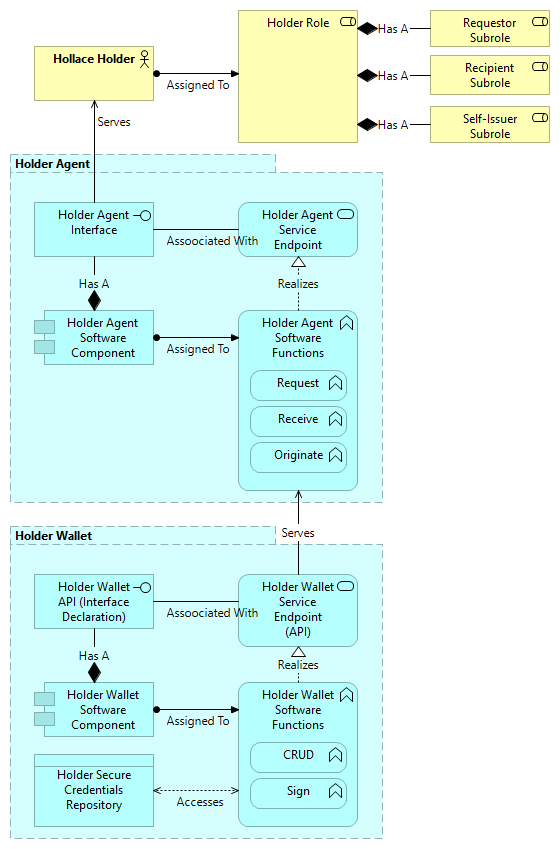
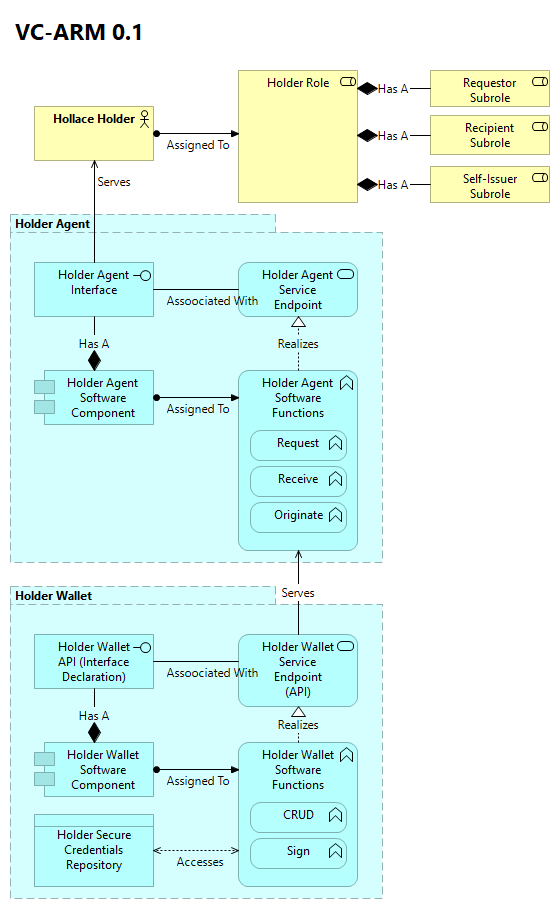
Updates

diff --git a/docs/id-5f1b868ce86d44c0824994fb5651137e/views/id-057761f3dbe04865ae358b3adf562c9b.html b/docs/id-5f1b868ce86d44c0824994fb5651137e/views/id-057761f3dbe04865ae358b3adf562c9b.html
@@ -34,31 +34,32 @@
 		    <!-- If this is a digram model (has children and no bounds) show the image -->
 			   <img class="diagram" src="../images/id-057761f3dbe04865ae358b3adf562c9b.png" alt="Hollace Holder" usemap="#id-057761f3dbe04865ae358b3adf562c9bmap"/>
 			   <map name="id-057761f3dbe04865ae358b3adf562c9bmap">
-				  				<area shape="rect" coords="34,754,154,827" href="../elements/id-10a0bb1a6f5a42da8bd22528b1be71bb.html"  target="element">
-				  						<area shape="rect" coords="250,778,347,809" href="../elements/id-1e212a46a3f24dfe8537ff79396595f8.html"  target="element">
-				  						<area shape="rect" coords="250,742,347,773" href="../elements/id-b7b471db2e7b4468a7560329dc020ba8.html"  target="element">
+				          <area shape="rect" coords="10,10,195,59" href="../objects/id-24a3309cb8154de5897f79bce68cece9.html" target="element" >
+				  				<area shape="rect" coords="34,814,154,887" href="../elements/id-10a0bb1a6f5a42da8bd22528b1be71bb.html"  target="element">
+				  						<area shape="rect" coords="250,838,347,869" href="../elements/id-1e212a46a3f24dfe8537ff79396595f8.html"  target="element">
+				  						<area shape="rect" coords="250,802,347,833" href="../elements/id-b7b471db2e7b4468a7560329dc020ba8.html"  target="element">
 
-				  				<area shape="rect" coords="238,682,358,827" href="../elements/id-3c14c3c766f04936ad9d70cefb44bc3d.html"  target="element">
-				  				<area shape="rect" coords="238,574,358,647" href="../elements/id-b89f7bc7dab04c119884cdb49d324cb8.html"  target="element">
-				  				<area shape="rect" coords="34,574,154,629" href="../elements/id-1a199d2642474268aa65907306ca427f.html"  target="element">
-				  				<area shape="rect" coords="34,682,154,737" href="../elements/id-d8c74a6a6bbc4d71899d1422d84370ae.html"  target="element">
+				  				<area shape="rect" coords="238,742,358,887" href="../elements/id-3c14c3c766f04936ad9d70cefb44bc3d.html"  target="element">
+				  				<area shape="rect" coords="238,634,358,707" href="../elements/id-b89f7bc7dab04c119884cdb49d324cb8.html"  target="element">
+				  				<area shape="rect" coords="34,634,154,689" href="../elements/id-1a199d2642474268aa65907306ca427f.html"  target="element">
+				  				<area shape="rect" coords="34,742,154,797" href="../elements/id-d8c74a6a6bbc4d71899d1422d84370ae.html"  target="element">
 
-				  		<area shape="rect" coords="10,526,383,839" href="../elements/id-ad8500bc4fa44a96bfbff93b9854d1bc.html"  target="element">
-				  		<area shape="rect" coords="430,55,550,95" href="../elements/id-50b888d408084381afd53c53c06b4dad.html"  target="element">
-				  		<area shape="rect" coords="430,106,550,143" href="../elements/id-3f8772030ae84038a1985429e6b9e5f7.html"  target="element">
-				  		<area shape="rect" coords="430,10,550,47" href="../elements/id-3be9d5756c154a34a602aacf626b26a3.html"  target="element">
-				  						<area shape="rect" coords="250,442,347,473" href="../elements/id-7e064d9a274a432bbca4f9107d67d92a.html"  target="element">
-				  						<area shape="rect" coords="250,406,347,437" href="../elements/id-c40bafde6ea54cab9142e6a40a0bcc62.html"  target="element">
-				  						<area shape="rect" coords="250,370,347,401" href="../elements/id-a03a7444b0f3499d950d5e9332a2ca58.html"  target="element">
+				  		<area shape="rect" coords="10,586,383,899" href="../elements/id-ad8500bc4fa44a96bfbff93b9854d1bc.html"  target="element">
+				  		<area shape="rect" coords="430,115,550,155" href="../elements/id-50b888d408084381afd53c53c06b4dad.html"  target="element">
+				  		<area shape="rect" coords="430,166,550,203" href="../elements/id-3f8772030ae84038a1985429e6b9e5f7.html"  target="element">
+				  		<area shape="rect" coords="430,70,550,107" href="../elements/id-3be9d5756c154a34a602aacf626b26a3.html"  target="element">
+				  						<area shape="rect" coords="250,502,347,533" href="../elements/id-7e064d9a274a432bbca4f9107d67d92a.html"  target="element">
+				  						<area shape="rect" coords="250,466,347,497" href="../elements/id-c40bafde6ea54cab9142e6a40a0bcc62.html"  target="element">
+				  						<area shape="rect" coords="250,430,347,461" href="../elements/id-a03a7444b0f3499d950d5e9332a2ca58.html"  target="element">
 
-				  				<area shape="rect" coords="238,310,358,491" href="../elements/id-ce4b17914ae644d2af34d2921eb5f556.html"  target="element">
-				  				<area shape="rect" coords="238,202,358,257" href="../elements/id-527afc36056d446a8c8e2bd7ba807223.html"  target="element">
-				  				<area shape="rect" coords="34,202,154,257" href="../elements/id-425c673a022f4662941015db655f503e.html"  target="element">
-				  				<area shape="rect" coords="34,310,154,365" href="../elements/id-6308c5a576c64a38bd3f4fca4b56d6b1.html"  target="element">
+				  				<area shape="rect" coords="238,370,358,551" href="../elements/id-ce4b17914ae644d2af34d2921eb5f556.html"  target="element">
+				  				<area shape="rect" coords="238,262,358,317" href="../elements/id-527afc36056d446a8c8e2bd7ba807223.html"  target="element">
+				  				<area shape="rect" coords="34,262,154,317" href="../elements/id-425c673a022f4662941015db655f503e.html"  target="element">
+				  				<area shape="rect" coords="34,370,154,425" href="../elements/id-6308c5a576c64a38bd3f4fca4b56d6b1.html"  target="element">
 
-				  		<area shape="rect" coords="10,154,383,503" href="../elements/id-7cd3e4d666734d7db42f46ec8dcc9fbb.html"  target="element">
-				  		<area shape="rect" coords="238,10,358,143" href="../elements/id-499a0c6808924bf789e0c3c78a2a7ed4.html"  target="element">
-				  		<area shape="rect" coords="34,46,154,101" href="../elements/id-405c42a06ab948eea967fe7dd9a34a89.html"  target="element">
+				  		<area shape="rect" coords="10,214,383,563" href="../elements/id-7cd3e4d666734d7db42f46ec8dcc9fbb.html"  target="element">
+				  		<area shape="rect" coords="238,70,358,203" href="../elements/id-499a0c6808924bf789e0c3c78a2a7ed4.html"  target="element">
+				  		<area shape="rect" coords="34,106,154,161" href="../elements/id-405c42a06ab948eea967fe7dd9a34a89.html"  target="element">
 
 			   </map>
 
@@ -211,6 +212,11 @@
 													</tr>
 
 											
+									        <tr>
+									           <td> <a href="../objects/id-24a3309cb8154de5897f79bce68cece9.html" target="element">  </a> </td>
+									           <td> <a href="../objects/id-24a3309cb8154de5897f79bce68cece9.html" target="element" class="i18n-elementtype-DiagramModelNote"> </a> </td>
+									        </tr>
+
 
 								</tbody>
 							</table>
@@ -415,6 +421,7 @@
 
 													
 											
+											<!-- DEBUG: Skipping element from class com.archimatetool.model.impl.DiagramModelNote -->
 
 								</tbody>
 							</table>

diff --git a/docs/id-5f1b868ce86d44c0824994fb5651137e/objects/id-24a3309cb8154de5897f79bce68cece9.html b/docs/id-5f1b868ce86d44c0824994fb5651137e/objects/id-24a3309cb8154de5897f79bce68cece9.html
@@ -1,0 +1,68 @@
+<!DOCTYPE HTML PUBLIC "-//W3C//DTD HTML 4.01 Transitional//EN" "http://www.w3.org/TR/html4/loose.dtd">
+<html class="frame" lang="en">
+<head>
+	<meta http-equiv="Content-Type" content="text/html;charset=utf-8">
+	<title></title>
+
+	<!-- JQUERY (use 1.x branch to be compatible with IE 6/7/8) -->
+	<script type="text/javascript" src="../../lib/jquery/js/jquery-1.11.2.min.js"></script>
+	<!-- BOOTSTRAP -->
+	<link type="text/css" rel="stylesheet" href="../../lib/bootstrap/css/bootstrap-3.3.2.min.css">
+	<link type="text/css" rel="stylesheet" href="../../lib/bootstrap/css/bootstrap-theme-3.3.2.min.css">
+	<script type="text/javascript" src="../../lib/bootstrap/js/bootstrap-3.3.2.min.js"></script>
+	<!-- REPORT SPECIFIC -->
+	<link type="text/css" rel="stylesheet" href="../../css/model.css">
+	<link type="text/css" rel="stylesheet" href="../../css/i18n.css">
+	<script type="text/javascript" src="../../js/frame.js"></script>
+	<script type="text/javascript" src="../../js/imageMapResizer.min.js"></script>
+</head>
+
+<body>
+	<div class="panel panel-default root-panel">
+
+		<div class="panel-heading root-panel-heading">
+            <!-- Name -->
+               <b class="i18n-elementtype-DiagramModelNote"></b>
+            <!-- If a View with Viewpoint -->
+			   (<span class="i18n-elementtype-DiagramModelNote"></span>)
+			   <a class="glyphicon glyphicon-info-sign" id="hint-DiagramModelNote" target="hint"></a>
+		</div>
+
+		<div class="panel-body root-panel-body">
+		    <!-- If this is a digram model (has children and no bounds) show the image -->
+
+			<div role="tabpanel">
+				<!-- Nav tabs -->
+				<ul class="nav nav-tabs" role="tablist">
+                    <!-- Purpose / Documentation / Content -->
+                       <li role="presentation" class="active"><a href="#documentation" aria-controls="documentation" role="tab" data-toggle="tab" class="i18n-content"></a></li>
+
+                    <!-- Properties -->
+                    <li role="presentation"><a href="#properties" aria-controls="properties" role="tab" data-toggle="tab" class="i18n-properties"></a></li>
+
+				</ul>
+
+				<!-- Tab panes -->
+				<div class="tab-content">
+					<div role="tabpanel" class="tab-pane active" id="documentation">
+						<div class="convertlinks documentation" style="white-space:pre-wrap">VC-ARM 0.1</div>
+					</div>
+					<div role="tabpanel" class="tab-pane" id="properties">
+						<table class="table table-striped table-hover table-condensed">
+							<thead>
+								<tr>
+									<th class="i18n-key"></th>
+									<th class="i18n-value"></th>
+								</tr>
+							</thead>
+							<tbody>
+							</tbody>
+						</table>
+					</div>
+			  </div>
+			</div>
+		</div>
+	</div>
+	<script type="text/javascript">imageMapResize();</script>
+</body>
+</html>
